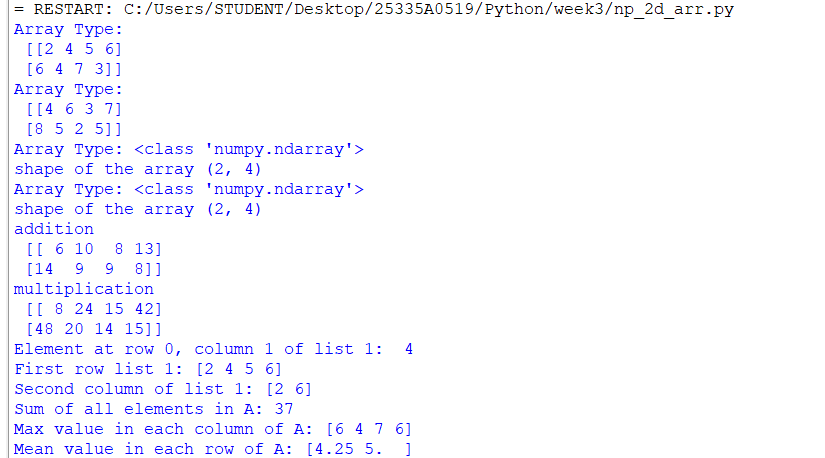
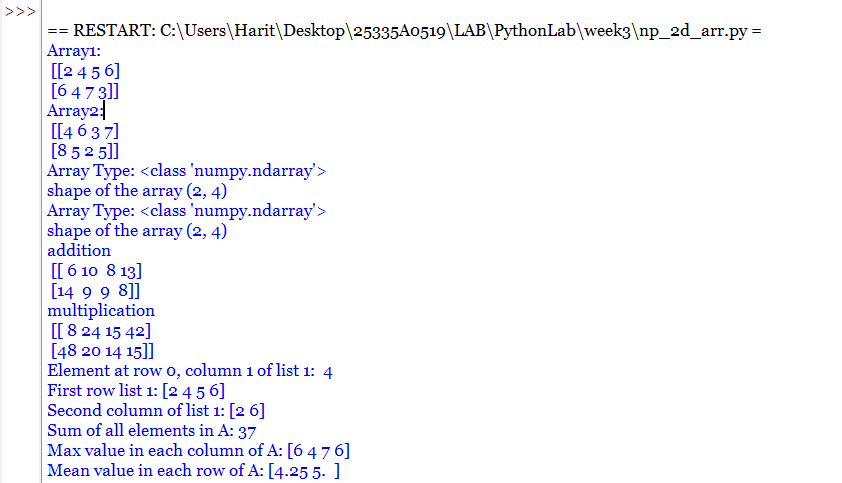
week3 modified

Changed region(s): [[0.0, 0.0, 0.9091, 1.0]]

diff --git a/week3/np_2d_arr.py b/week3/np_2d_arr.py
@@ -1,23 +1,25 @@
 import numpy as np
 npLst1 = np.array([[2,4,5,6],[6,4,7,3]])
-print("Array Type:\n",npLst1)
+print("Array1:\n",npLst1)
 npLst2 = np.array([[4,6,3,7],[8,5,2,5]])
-print("Array Type:\n",npLst2)
+print("Array2:\n",npLst2)
+
 
 print("Array Type:",type(npLst1))
 print("shape of the array",np.shape(npLst1))
 print("Array Type:",type(npLst2))
 print("shape of the array",np.shape(npLst2))
 
+
 print("addition\n",npLst1+npLst2)
 print("multiplication\n",npLst1*npLst2)
+
 
 print("Element at row 0, column 1 of list 1: ",npLst1[0, 1])
 print("First row list 1:", npLst1[0, :])
 print("Second column of list 1:", npLst1[:, 0])
 
+
 print("Sum of all elements in A:", np.sum(npLst1))
 print("Max value in each column of A:", np.max(npLst1, axis=0))
 print("Mean value in each row of A:", np.mean(npLst1, axis=1))
-
-#max min std mean ndarray array where var
